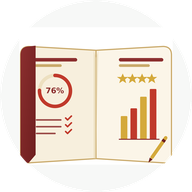
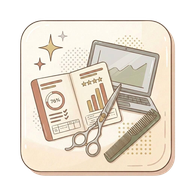
Add files via upload

diff --git a/index.html b/index.html
@@ -6,7 +6,12 @@
 <title>Ｓｔｙｌｉｓｔ成績ノート</title>
 <link rel="manifest" href="manifest.json">
 <meta name="theme-color" content="#8B3A3A">
-<link rel="icon" href="icon-192.png">
+<link rel="icon" href="icon-48.png" sizes="48x48" type="image/png">
+<link rel="icon" href="icon-72.png" sizes="72x72" type="image/png">
+<link rel="icon" href="icon-96.png" sizes="96x96" type="image/png">
+<link rel="icon" href="icon-144.png" sizes="144x144" type="image/png">
+<link rel="icon" href="icon-192.png" sizes="192x192" type="image/png">
+<link rel="icon" href="icon-512.png" sizes="512x512" type="image/png">
 <link rel="apple-touch-icon" href="icon-192.png">
 <meta name="mobile-web-app-capable" content="yes">
 <meta name="apple-mobile-web-app-capable" content="yes">
@@ -214,6 +219,11 @@
   .field-group > div:last-child{border-bottom:none;}
   .field-row label{font-size:calc(13.5px * var(--fs-scale)); flex:1; line-height:1.3;}
   .field-row .hint{display:block; font-size:calc(10.5px * var(--fs-scale)); color:var(--ink-soft); margin-top:1px;}
+  .field-row.menu-row{cursor:pointer;}
+  .field-row.menu-row:active{background:var(--surface-muted);}
+  .field-row.menu-row label{display:flex; align-items:center; gap:10px;}
+  .field-row.menu-row .menu-ic{font-size:calc(16px * var(--fs-scale)); flex-shrink:0;}
+  .field-row.menu-row .chevron{font-size:calc(16px * var(--fs-scale)); color:var(--ink-soft); flex-shrink:0;}
   .field-row input{
     width:108px; text-align:right; border:none; background:var(--surface-muted);
     border-radius:9px; padding:8px 10px; font-size:calc(15px * var(--fs-scale)); font-family:var(--font-mono);
@@ -329,7 +339,6 @@
   <button class="tab-btn active" data-tab="grid"><span class="ic">🗓</span>月次入力</button>
   <button class="tab-btn" data-tab="summary"><span class="ic">📊</span>年間集計</button>
   <button class="tab-btn" data-tab="chart"><span class="ic">📈</span>グラフ</button>
-  <button class="tab-btn" data-tab="export"><span class="ic">⇄</span>読込・書出</button>
   <button class="tab-btn" data-tab="settings"><span class="ic">⚙</span>設定</button>
 </nav>
 
@@ -1060,7 +1069,7 @@ function renderExport(){
 }
 
 /* ============================================================
-   レンダリング: 設定
+   レンダリング: 設定（メニュー。各項目はボトムシートで開く）
    ============================================================ */
 function renderSettings(){
   const wrap = document.createElement('div');
@@ -1070,98 +1079,136 @@ function renderSettings(){
   title.textContent = '設定';
   wrap.appendChild(title);
 
-  const intro = document.createElement('p');
-  intro.className = 'no-print';
-  intro.style.cssText = 'font-size:calc(12.5px * var(--fs-scale));color:var(--ink-soft);line-height:1.7;margin:-4px 0 14px;';
-  intro.textContent = '8インチタブレットなどの画面でも見やすいように、文字のサイズ・太さ・字体をアプリ全体で変更できます。';
-  wrap.appendChild(intro);
+  const menu = document.createElement('div');
+  menu.className = 'field-group';
+  menu.innerHTML = `
+    <div class="field-row menu-row" id="openFontSettings">
+      <label><span class="menu-ic">🔤</span>フォント設定<span class="hint">文字のサイズ・太さ・字体を変更</span></label>
+      <span class="chevron">›</span>
+    </div>
+    <div class="field-row menu-row" id="openDataSettings">
+      <label><span class="menu-ic">⇄</span>読込・書出<span class="hint">バックアップ・Excel連携・データの書き出し</span></label>
+      <span class="chevron">›</span>
+    </div>
+  `;
+  wrap.appendChild(menu);
 
-  function optionRow(labelText, options, currentKey, dataAttr){
-    const row = document.createElement('div');
-    row.className = 'field-group';
-    row.style.padding = '14px';
-    row.style.marginTop = '0';
-    const buttons = options.map(o=>
-      `<button class="btn ${currentKey===o.key?'primary':'ghost'}" data-${dataAttr}="${o.key}" style="flex:1;">${o.label}</button>`
-    ).join('');
-    row.innerHTML = `
+  menu.querySelector('#openFontSettings').onclick = openFontSettingsSheet;
+  menu.querySelector('#openDataSettings').onclick = openDataSettingsSheet;
+
+  return wrap;
+}
+
+/* ---- 設定 > フォント設定（ボトムシート） ---- */
+function fontSettingsOptionRowHtml(labelText, options, currentKey, dataAttr){
+  const buttons = options.map(o=>
+    `<button class="btn ${currentKey===o.key?'primary':'ghost'}" data-${dataAttr}="${o.key}" style="flex:1;">${o.label}</button>`
+  ).join('');
+  return `
+    <div class="field-group" style="padding:14px; margin-top:12px;">
       <div style="font-size:calc(11px * var(--fs-scale));color:var(--ink-soft);margin-bottom:8px;">${labelText}</div>
       <div style="display:flex; gap:8px; flex-wrap:wrap;">${buttons}</div>
-    `;
-    return row;
-  }
-
-  const sizeRow = optionRow('文字サイズ', FONT_SIZE_OPTIONS, state.fontSize, 'size');
-  sizeRow.style.marginBottom = '12px';
-  wrap.appendChild(sizeRow);
-
-  const weightRow = optionRow('文字の太さ', FONT_WEIGHT_OPTIONS, state.fontWeight, 'weight');
-  weightRow.style.marginBottom = '12px';
-  wrap.appendChild(weightRow);
-
-  const familyRow = optionRow('字体', FONT_FAMILY_OPTIONS, state.fontFamily, 'family');
-  familyRow.style.marginBottom = '16px';
-  wrap.appendChild(familyRow);
-
-  const preview = document.createElement('div');
-  preview.className = 'field-group';
-  preview.style.padding = '14px';
-  preview.innerHTML = `
-    <div style="font-size:calc(11px * var(--fs-scale));color:var(--ink-soft);margin-bottom:6px;">プレビュー</div>
-    <div class="display" style="font-size:calc(20px * var(--fs-scale));">Fan売上 ¥128,000</div>
-    <div style="font-size:calc(13.5px * var(--fs-scale));margin-top:6px;">リピート率　68.4%</div>
+    </div>`;
+}
+function fontSettingsSheetHtml(){
+  return `
+    <div class="sheet-handle"></div>
+    <div class="sheet-header">
+      <div class="sheet-title">フォント設定</div>
+      <button class="sheet-close" id="closeSheet">✕</button>
+    </div>
+    <p style="font-size:calc(12.5px * var(--fs-scale));color:var(--ink-soft);line-height:1.7;margin:-4px 0 4px;">8インチタブレットなどの画面でも見やすいように、文字のサイズ・太さ・字体をアプリ全体で変更できます。</p>
+    ${fontSettingsOptionRowHtml('文字サイズ', FONT_SIZE_OPTIONS, state.fontSize, 'size')}
+    ${fontSettingsOptionRowHtml('文字の太さ', FONT_WEIGHT_OPTIONS, state.fontWeight, 'weight')}
+    ${fontSettingsOptionRowHtml('字体', FONT_FAMILY_OPTIONS, state.fontFamily, 'family')}
+    <div class="field-group" style="padding:14px; margin-top:12px;">
+      <div style="font-size:calc(11px * var(--fs-scale));color:var(--ink-soft);margin-bottom:6px;">プレビュー</div>
+      <div class="display" style="font-size:calc(20px * var(--fs-scale));">Fan売上 ¥128,000</div>
+      <div style="font-size:calc(13.5px * var(--fs-scale));margin-top:6px;">リピート率　68.4%</div>
+    </div>
   `;
-  wrap.appendChild(preview);
-
-  sizeRow.querySelectorAll('button[data-size]').forEach(btn=>{
+}
+function bindFontSettingsSheetHandlers(sheet){
+  sheet.querySelector('#closeSheet').onclick = closeSheet;
+  sheet.querySelectorAll('button[data-size]').forEach(btn=>{
     btn.onclick = async ()=>{
       const key = btn.dataset.size;
       if(state.fontSize===key) return;
       state.fontSize = key;
       applyFontSize(key);
       await saveFontSize(key);
-      render();
       if(state.tab==='chart'){
         const main = document.getElementById('main');
         if(main) loadAndDrawCharts(main);
       }
       showToast('文字サイズを「'+FONT_SIZE_OPTIONS.find(o=>o.key===key).label+'」に変更しました');
+      refreshFontSettingsSheet();
     };
   });
-
-  weightRow.querySelectorAll('button[data-weight]').forEach(btn=>{
+  sheet.querySelectorAll('button[data-weight]').forEach(btn=>{
     btn.onclick = async ()=>{
       const key = btn.dataset.weight;
       if(state.fontWeight===key) return;
       state.fontWeight = key;
       applyFontWeight(key);
       await saveFontWeight(key);
-      render();
       if(state.tab==='chart'){
         const main = document.getElementById('main');
         if(main) loadAndDrawCharts(main);
       }
       showToast('文字の太さを「'+FONT_WEIGHT_OPTIONS.find(o=>o.key===key).label+'」に変更しました');
+      refreshFontSettingsSheet();
     };
   });
-
-  familyRow.querySelectorAll('button[data-family]').forEach(btn=>{
+  sheet.querySelectorAll('button[data-family]').forEach(btn=>{
     btn.onclick = async ()=>{
       const key = btn.dataset.family;
       if(state.fontFamily===key) return;
       state.fontFamily = key;
       applyFontFamily(key);
       await saveFontFamily(key);
-      render();
       if(state.tab==='chart'){
         const main = document.getElementById('main');
         if(main) loadAndDrawCharts(main);
       }
       showToast('字体を「'+FONT_FAMILY_OPTIONS.find(o=>o.key===key).label+'」に変更しました');
+      refreshFontSettingsSheet();
     };
   });
+}
+function refreshFontSettingsSheet(){
+  const sheet = document.getElementById('sheet');
+  if(!sheet.classList.contains('open')) return;
+  sheet.innerHTML = fontSettingsSheetHtml();
+  bindFontSettingsSheetHandlers(sheet);
+}
+function openFontSettingsSheet(){
+  const overlay = document.getElementById('overlay');
+  const sheet = document.getElementById('sheet');
+  sheet.innerHTML = fontSettingsSheetHtml();
+  bindFontSettingsSheetHandlers(sheet);
+  overlay.onclick = closeSheet;
+  overlay.classList.add('open');
+  requestAnimationFrame(()=> sheet.classList.add('open'));
+}
 
-  return wrap;
+/* ---- 設定 > 読込・書出（ボトムシート。中身は既存のrenderExport()を再利用） ---- */
+function openDataSettingsSheet(){
+  const overlay = document.getElementById('overlay');
+  const sheet = document.getElementById('sheet');
+  sheet.innerHTML = '';
+  const handle = document.createElement('div');
+  handle.className = 'sheet-handle';
+  sheet.appendChild(handle);
+  const header = document.createElement('div');
+  header.className = 'sheet-header';
+  header.innerHTML = `<div class="sheet-title">読込・書出</div><button class="sheet-close" id="closeSheet">✕</button>`;
+  sheet.appendChild(header);
+  sheet.appendChild(renderExport());
+  sheet.querySelector('#closeSheet').onclick = closeSheet;
+  overlay.onclick = closeSheet;
+  overlay.classList.add('open');
+  requestAnimationFrame(()=> sheet.classList.add('open'));
 }
 
 /* ---- 端末間バックアップ(全年度・完全復元用) ---- */
@@ -1218,6 +1265,7 @@ function handleImportBackup(ev){
       state.yearData = await loadYear(state.year);
       await saveLastYear(state.year); // 次回起動時もこの年度が開くように記録しておく
       showToast(savedCount+'年度分を復元しました');
+      closeSheet(); // 設定 > 読込・書出 のシートを閉じて、復元結果(月次入力)がすぐ見えるようにする
       render();
     }catch(err){
       console.error(err);
@@ -1503,7 +1551,6 @@ function render(){
   if(state.tab==='grid') main.appendChild(renderGrid());
   else if(state.tab==='summary') main.appendChild(renderSummary());
   else if(state.tab==='chart') main.appendChild(renderChart());
-  else if(state.tab==='export') main.appendChild(renderExport());
   else main.appendChild(renderSettings());
 
   document.querySelectorAll('.tab-btn').forEach(b=>{
@@ -1538,7 +1585,7 @@ window.addEventListener('resize', ()=>{
 // PWA: Service Workerの登録（HTTPSまたはlocalhostでのみ有効。file://で開いた場合は失敗するが動作に支障はない）
 if('serviceWorker' in navigator){
   window.addEventListener('load', ()=>{
-    navigator.serviceWorker.register('./service-worker.js').catch((err)=>{
+    navigator.serviceWorker.register('./serviceworker.js').catch((err)=>{
       console.warn('Service Worker登録をスキップしました（file://で開いている場合は想定内です）:', err && err.message);
     });
   });

diff --git a/serviceworker.js b/serviceworker.js
@@ -1,0 +1,62 @@
+const CACHE_NAME = 'stylist-note-v7';
+const ASSETS = [
+  './',
+  './index.html',
+  './manifest.json',
+  './icon-48.png',
+  './icon-72.png',
+  './icon-96.png',
+  './icon-144.png',
+  './icon-192.png',
+  './icon-512.png',
+  './icon-maskable-192.png',
+  './icon-maskable-512.png',
+];
+// Excel書き出し/読み込みで使うライブラリ。取得できなくてもアプリ本体の動作には影響しないため、
+// 失敗してもインストール全体を失敗させないよう別扱いにする。
+const OPTIONAL_ASSETS = [
+  'https://cdnjs.cloudflare.com/ajax/libs/xlsx/0.18.5/xlsx.full.min.js',
+];
+
+self.addEventListener('install', (event) => {
+  event.waitUntil(
+    caches.open(CACHE_NAME)
+      .then(async (cache) => {
+        await cache.addAll(ASSETS);
+        await Promise.all(OPTIONAL_ASSETS.map((url) =>
+          cache.add(url).catch(() => {
+            // オフライン等で取得できなくても、次回オンライン時にfetchハンドラー側でキャッシュされる
+          })
+        ));
+      })
+      .then(() => self.skipWaiting())
+  );
+});
+
+self.addEventListener('activate', (event) => {
+  event.waitUntil(
+    caches.keys()
+      .then((keys) => Promise.all(keys.filter((k) => k !== CACHE_NAME).map((k) => caches.delete(k))))
+      .then(() => self.clients.claim())
+  );
+});
+
+self.addEventListener('fetch', (event) => {
+  if (event.request.method !== 'GET') return;
+
+  event.respondWith(
+    caches.match(event.request).then((cached) => {
+      const network = fetch(event.request)
+        .then((res) => {
+          if (res && res.status === 200) {
+            const resClone = res.clone();
+            caches.open(CACHE_NAME).then((cache) => cache.put(event.request, resClone));
+          }
+          return res;
+        })
+        .catch(() => cached);
+      // キャッシュがあれば即座に返しつつ、裏でネットワークからも更新する
+      return cached || network;
+    })
+  );
+});

diff --git a/README.md b/README.md
@@ -1,1 +1,36 @@
-# Sales-record
+# Ｓｔｙｌｉｓｔ成績ノート
+
+スタイリストの月次・年間成績を記録するPWA(Progressive Web App)です。ビルド不要・純粋なHTML/CSS/JavaScriptのみで動作します。
+
+## ファイル構成
+
+```
+index.html               アプリ本体
+manifest.json             PWAマニフェスト
+serviceworker.js          オフラインキャッシュ用Service Worker
+icon-48.png                └ アプリアイコン(any) 48x48
+icon-72.png                └ アプリアイコン(any) 72x72
+icon-96.png                └ アプリアイコン(any) 96x96
+icon-144.png                └ アプリアイコン(any) 144x144
+icon-192.png                └ アプリアイコン(any) 192x192
+icon-512.png                └ アプリアイコン(any) 512x512
+icon-maskable-192.png       └ アプリアイコン(maskable) 192x192
+icon-maskable-512.png       └ アプリアイコン(maskable) 512x512
+```
+
+すべて同じフォルダ(リポジトリのルート、またはGitHub Pagesの公開フォルダ)にそのまま置いてください。相対パス(`./`)で参照し合っているため、リポジトリ直下でもサブフォルダ配信(例: `https://<user>.github.io/<repo>/`)でもそのまま動作します。
+
+## GitHub Pagesでの公開手順
+
+1. GitHubで新しいリポジトリを作成する(または既存リポジトリを使う)。
+2. このフォルダの中身(上記11ファイル)をリポジトリのルートに追加してコミット・プッシュする。
+3. リポジトリの **Settings → Pages** を開く。
+4. **Source** を「Deploy from a branch」にし、Branch を `main`(または該当ブランチ)・フォルダを `/ (root)` に設定して保存する。
+5. 数分後、`https://<ユーザー名>.github.io/<リポジトリ名>/` でアプリにアクセスできる。
+6. スマートフォン/タブレットでそのURLを開き、ブラウザの「ホーム画面に追加」からインストールするとPWAとして使えます。
+
+## 今回のチェックで修正した点
+
+- `index.html` がService Workerを `./service-worker.js` という(存在しない)ファイル名で登録しようとしていたバグを修正し、実際のファイル名 `./serviceworker.js` に合わせました。これが直っていないと、オフラインキャッシュが一切効かない状態でした。
+- 設定内の「読込・書出」画面(シート)から「バックアップを読み込む」を実行した際、復元後もシートが開いたままで結果(月次入力画面)が隠れてしまう不具合を修正し、復元完了と同時にシートが閉じて結果が見えるようにしました。
+- アイコン刷新・キャッシュ対象の変更に合わせて、Service Workerのキャッシュバージョンを更新し、古いキャッシュが残らないようにしました。
